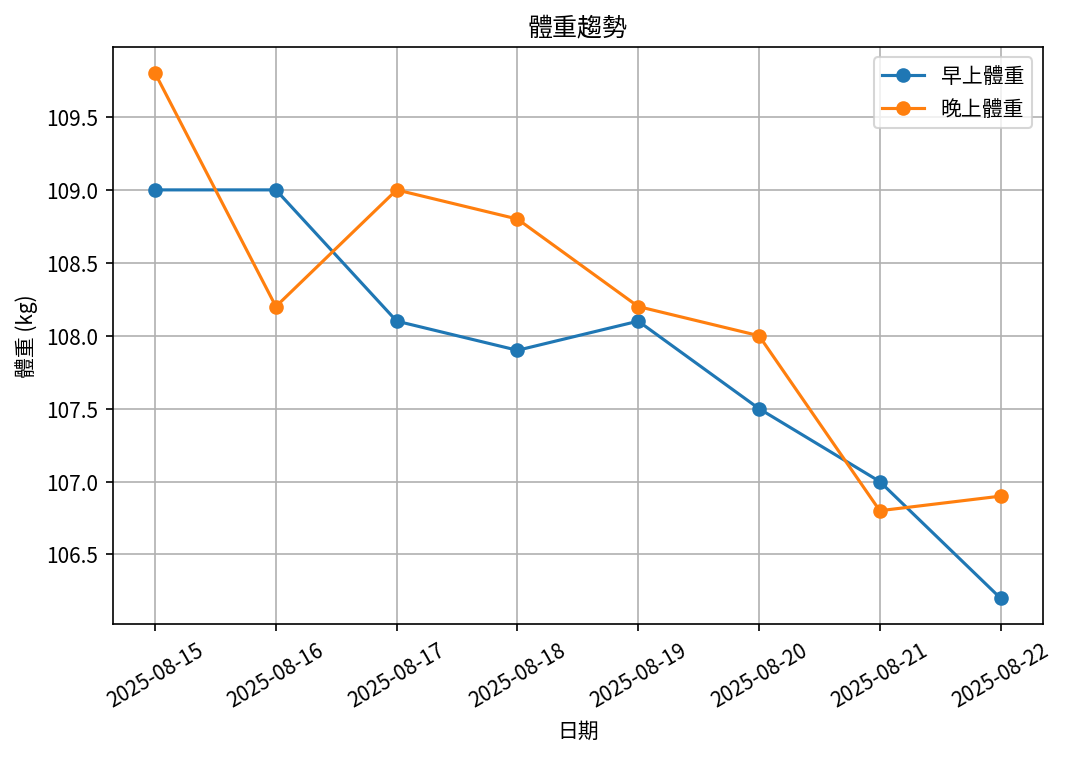
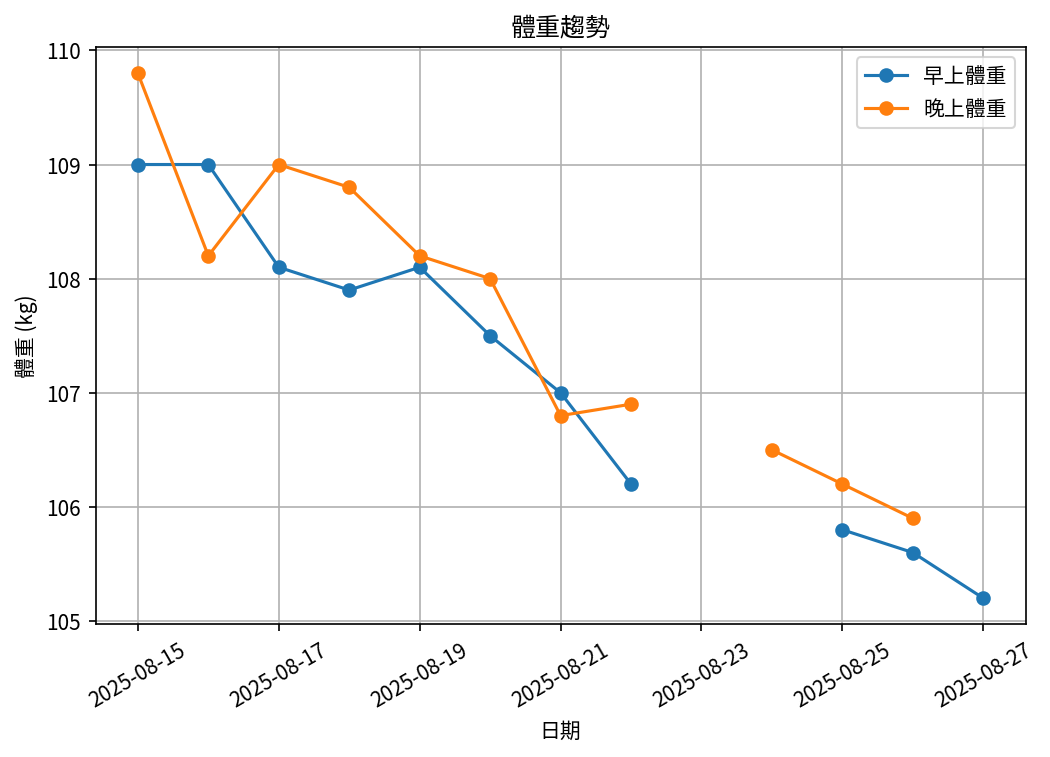
Update summarys

diff --git a/reports/summary/overall_summary_report.md b/reports/summary/overall_summary_report.md
@@ -1,7 +1,7 @@
 # 📊 減重總結報告
 
-**總期間：2025/08/15 ～ 2025/08/22**  
-**追蹤期間：8 天 (2 週)**  
+**總期間：2025/08/15 ～ 2025/08/27**  
+**追蹤期間：13 天 (2 週)**  
 
 ---
 
@@ -13,13 +13,13 @@
 |:-------------|:----------------|:----------------|:---------------|:---------------|
 | 08/15 (週五) | 109.0           | 109.8           | nan            | 29.0           |
 | ...          | ...             | ...             | ...            | ...            |
-| 08/16 (週六) | 109.0           | 108.2           | 30.3           | 27.9           |
-| 08/17 (週日) | 108.1           | 109.0           | 30.6           | 28.8           |
-| 08/18 (週一) | 107.9           | 108.8           | 30.7           | 27.9           |
-| 08/19 (週二) | 108.1           | 108.2           | 30.3           | 29.5           |
-| 08/20 (週三) | 107.5           | 108.0           | 30.5           | 27.7           |
 | 08/21 (週四) | 107.0           | 106.8           | 30.4           | 27.0           |
 | 08/22 (週五) | 106.2           | 106.9           | 30.4           | 28.4           |
+| 08/23 (週六) | nan             | nan             | nan            | nan            |
+| 08/24 (週日) | nan             | 106.5           | nan            | 28.8           |
+| 08/25 (週一) | 105.8           | 106.2           | 30.6           | 27.4           |
+| 08/26 (週二) | 105.6           | 105.9           | 30.1           | 29.1           |
+| 08/27 (週三) | 105.2           | nan             | 30.0           | nan            |
 
 ---
 
@@ -32,24 +32,23 @@
 
 ## 📌 總體統計
 
-- **體重（AM）**：109.0 → 106.2 kg  (**-2.8 kg**), 總平均 107.8 kg  
-- **體重（PM）**：109.8 → 106.9 kg  (**-2.9 kg**), 總平均 108.2 kg  
-- **體重（AM+PM 平均）**：108.0 kg  
+- **體重（AM）**：109.0 → 105.2 kg  (**-3.8 kg**), 總平均 107.2 kg  
+- **體重（PM）**：109.8 → 105.9 kg  (**-3.9 kg**), 總平均 107.7 kg  
+- **體重（AM+PM 平均）**：107.4 kg  
 
-- **體脂（AM）**：30.3% → 30.4%  (**0.1%**), 總平均 30.5%  
-- **體脂（PM）**：29.0% → 28.4%  (**-0.6%**), 總平均 28.3%  
+- **體脂（AM）**：30.3% → 30.0%  (**-0.3%**), 總平均 30.4%  
+- **體脂（PM）**：29.0% → 29.1%  (**0.1%**), 總平均 28.3%  
 - **體脂（AM+PM 平均）**：29.4%  
 
-- **追蹤天數**：8 天  
-- 平均每週體重變化（AM）：-1.4 kg/週  
-- 平均每週體重變化（PM）：-1.4 kg/週
+- **追蹤天數**：13 天  
+- 平均每週體重變化（AM）：-1.9 kg/週  
+- 平均每週體重變化（PM）：-1.9 kg/週
 
 ---
 
 ## 🎯 重點成果
 
-✅ **體重減少**：在 8 天內減重 2.8 kg（早上測量）  
-✅ **體脂下降**：體脂率降低 0.6%（晚上測量）  
+✅ **體重減少**：在 13 天內減重 3.8 kg（早上測量）  
 
 ## ✅ 持續建議
 - 維持 **高蛋白 (每公斤 1.6–2.0 g)** 與 **每週 2–3 次阻力訓練**  
